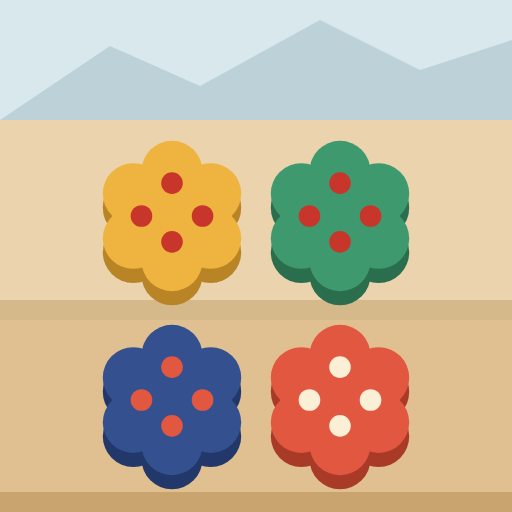
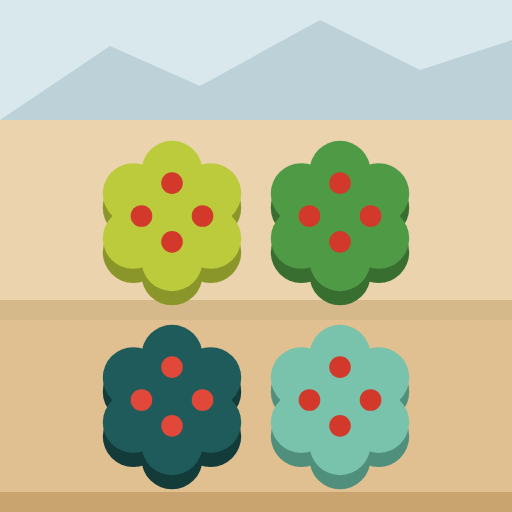
Species as four greens with red cherries

diff --git a/js/model.js b/js/model.js
@@ -1,9 +1,9 @@
 // All game rules live here. Board = 16 cells, index = row*4+col, row 0 = top (highest altitude).
 export const SPECIES = {
-  Y: { key: 'Y', name: 'Arabica',  latin: 'Coffea arabica',   color: 'Yellow', rows: [0, 1],       where: 'Top two rows' },
+  Y: { key: 'Y', name: 'Arabica',  latin: 'Coffea arabica',   color: 'Yellow-green', rows: [0, 1],       where: 'Top two rows' },
   G: { key: 'G', name: 'Racemosa', latin: 'Coffea racemosa',  color: 'Green',  rows: [1, 2],       where: 'Middle two rows' },
-  B: { key: 'B', name: 'Liberica', latin: 'Coffea liberica',  color: 'Blue',   rows: [1, 2, 3],    where: 'Bottom three rows' },
-  R: { key: 'R', name: 'Robusta',  latin: 'Coffea canephora', color: 'Red',    rows: [0, 1, 2, 3], where: 'Anywhere' },
+  B: { key: 'B', name: 'Liberica', latin: 'Coffea liberica',  color: 'Deep teal',   rows: [1, 2, 3],    where: 'Bottom three rows' },
+  R: { key: 'R', name: 'Robusta',  latin: 'Coffea canephora', color: 'Seafoam',    rows: [0, 1, 2, 3], where: 'Anywhere' },
 };
 export const PLANTS = ['Y', 'G', 'B', 'R'];
 export const MOVE = 'M';

diff --git a/js/art.js b/js/art.js
@@ -1,9 +1,10 @@
 // Flat art: terraced hillside and coin-like plant tokens. No gradients, no blur — solid faces only.
 export const PAL = {
-  Y: { top: '#efb43f', side: '#b98425', berry: '#c8352a' },
-  G: { top: '#3e9a6e', side: '#2a6e4e', berry: '#c8352a' },
-  B: { top: '#34508f', side: '#22386a', berry: '#e2573f' },
-  R: { top: '#e2573f', side: '#a93a28', berry: '#fbefd6' },
+  // Four greens told apart by hue AND lightness: chartreuse (light, yellow), grass (mid), seafoam (light, blue), deep teal (dark).
+  Y: { top: '#bccb3c', side: '#8a962a', berry: '#d2392b' },
+  G: { top: '#4f9a45', side: '#386f31', berry: '#d2392b' },
+  R: { top: '#79c2ab', side: '#4f8f7b', berry: '#d2392b' },
+  B: { top: '#1f5b5a', side: '#123b3a', berry: '#e2483a' },
   M: { top: '#fbf8f2', side: '#cfc6b6', berry: '#3a3530' },
 };
 // Six-lobed shrub silhouette, flat: one solid top face over a solid side face.

diff --git a/sw.js b/sw.js
@@ -1,5 +1,5 @@
 // Network-first so updates show up right away; cache is the offline fallback.
-const CACHE = 'coffea-v3';
+const CACHE = 'coffea-v4';
 self.addEventListener('install', () => self.skipWaiting());
 self.addEventListener('activate', e => e.waitUntil(
   caches.keys().then(ks => Promise.all(ks.filter(k => k !== CACHE).map(k => caches.delete(k)))).then(() => self.clients.claim())

diff --git a/CLAUDE.md b/CLAUDE.md
@@ -1,6 +1,6 @@
 # Coffea Arabica — notes for Claude
 
-- Owner: Noah. His board game (first draft "Arabica Rulebook v1.0", ~/Downloads/ArabicaRules_v100.pages) as a phone PWA. Look: flat and modern (Monument Valley / NYT Games), no gradients, blur or glossy shading. Paper background, ink UI, DM Serif Display headings. Board = flat clay terraces with risers under a pale sky and flat mountains, rows numbered 1 (bottom) to 4 (top). Pieces = Noah's six-lobed coffee shrubs with 4 cherries, drawn flat (solid top + solid side face, no shading); he asked to keep that shape. Noah's 3D board render (bubbly bushes, Lobster script) was only a starting idea and was rejected as too bubbly.
+- Owner: Noah. His board game (first draft "Arabica Rulebook v1.0", ~/Downloads/ArabicaRules_v100.pages) as a phone PWA. Look: flat and modern (Monument Valley / NYT Games), no gradients, blur or glossy shading. Paper background, ink UI, DM Serif Display headings. Board = flat clay terraces with risers under a pale sky and flat mountains, rows numbered 1 (bottom) to 4 (top). Pieces = Noah's six-lobed coffee shrubs with 4 cherries, drawn flat (solid top + solid side face, no shading); he asked to keep that shape. Species colours are all greens (his call), cherries always red: Arabica chartreuse, Racemosa grass, Robusta seafoam, Liberica deep teal — keep them apart by lightness as well as hue. Noah's 3D board render (bubbly bushes, Lobster script) was only a starting idea and was rejected as too bubbly.
 - No build step, no frameworks, no npm deps. ES modules served statically, same setup as ~/Claude/EveryDay and ~/Claude/FretFlow.
 - All rules live in `js/model.js` (row 0 in code = top = "row 4" on screen). Run `node --test tests/model.test.mjs` after changing them. Computer opponent in `js/ai.js` (easy random / normal = don't hand over a win / hard = one full turn of expectimax).
 - Rulings the rulebook left open (shown in the app's rules sheet): disease is orthogonal and checked before the win; transplants obey altitude; a piece with no legal spot goes back and the turn ends; 8 straight passes = draw.
